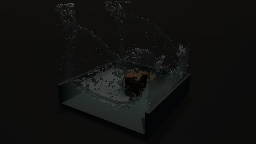
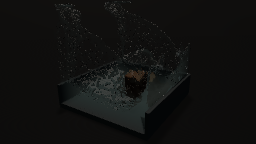
Liquid Surface: port the FLIP Fluids mesher ratios (reach 2/3 bin, band 1/3 bin)
The GPU water looked blobby because the level set was only exact a tenth
of a bin outside the kernel, below the lattice spacing, so marching cubes
read a clipped field at every crossing. The FLIP Fluids mesher (ported
reference, crates/manifold-fluids/native/flip_engine/particlemesher.cpp)
writes its sphere-union field exactly out to 1.5 radii: band is half the
reach. The three surface atoms now share that ratio: blob reach caps at
2/3 of a bin, the volume and the solid clamp hold a 1/3-bin band.

WaterDamBreakGpuFlip takes the mesher's defaults: particle scale 3.0,
no level-set smoothing, mesh relaxation 0.5 x 2, bin 1.4 cells (1.5
radii, where the kernel meets the cap).

The extreme-dials proof asserted smoothing drags the border under zero;
at a third of a bin it cannot, so it now asserts the border moved off
the band, which is what the clamp restores.

diff --git a/crates/manifold-renderer/src/node_graph/primitives/liquid_surface_tests.rs b/crates/manifold-renderer/src/node_graph/primitives/liquid_surface_tests.rs
@@ -1002,7 +1002,8 @@ fn fluid_shape_particle_blobs_stretch_one_is_an_exact_sphere() {
 
 /// The level set's cap outside the liquid, as a fraction of a bin; the WGSL of
 /// `node.particle_volume` and `node.shape_particle_blobs` both hold it (P6e).
-const LEVEL_SET_BAND: f64 = 0.1;
+/// The volume's cap, as a fraction of a bin; the blob reach cap is the rest.
+const LEVEL_SET_BAND: f64 = 1.0 / 3.0;
 
 /// The volume against a brute force over every blob, not just the node's
 /// bins: it matches only if no blob the ±1-bin search misses comes within the
@@ -1782,7 +1783,7 @@ fn fluid_clamp_liquid_to_solids_matches_reference_and_passes_through() {
     let (_, errors) = run(&mut harness, nodes);
     assert!(errors.is_empty(), "{errors:?}");
     let clamped: Vec<f32> = read(&clamped_buf, values.len());
-    let band = 0.1_f32 * cell;
+    let band = cell / 3.0;
     let h: [f64; 3] = std::array::from_fn(|a| f64::from(size[a]) / f64::from(nodes[a] - 1));
     let (mut border, mut raised, mut kept, mut ambiguous) = (0, 0, 0, 0);
     for (idx, (&value, &out)) in values[..total].iter().zip(&clamped).enumerate() {
@@ -1856,7 +1857,9 @@ fn fluid_clamp_fused_with_smoothing_renders_like_unfused() {
 /// resolution 8 against the floor and four closed walls and, through the open
 /// top, up to the lattice's top edge. After the clamp every padding node
 /// (behind a closed wall) reads air and every border node reads the band;
-/// before it, both kinds read liquid, or the fixture proves nothing.
+/// before it, the padding reads liquid and smoothing has pulled the border
+/// off the band (the volume already holds it there), or the fixture proves
+/// nothing.
 #[test]
 fn fluid_liquid_surface_keeps_padding_and_border_air_at_extreme_dials() {
     use crate::node_graph::liquid::lattice::{LiquidLattice, PADDING_NODES};
@@ -1943,16 +1946,16 @@ fn fluid_liquid_surface_keeps_padding_and_border_air_at_extreme_dials() {
 
     let smoothed: Vec<f32> = read(&smoothed.expect("three passes"), total);
     let clamped: Vec<f32> = read(&clamped_buf, total);
-    let band = 0.1_f32 * cell;
+    let band = cell / 3.0;
     let h: [f64; 3] = std::array::from_fn(|a| f64::from(lattice.size[a]) / f64::from(nodes[a] - 1));
     let (mut border, mut padding) = (0, 0);
-    let (mut border_liquid_before, mut padding_liquid_before) = (0, 0);
+    let (mut border_moved_before, mut padding_liquid_before) = (0, 0);
     for idx in 0..total {
         let ijk = [idx as u32 % nodes[0], (idx as u32 / nodes[0]) % nodes[1], idx as u32 / (nodes[0] * nodes[1])];
         if (0..3).any(|a| ijk[a] == 0 || ijk[a] == nodes[a] - 1) {
             assert_eq!(clamped[idx].to_bits(), band.to_bits(), "border node {ijk:?} reads {}", clamped[idx]);
             border += 1;
-            border_liquid_before += usize::from(smoothed[idx] < 0.0);
+            border_moved_before += usize::from(smoothed[idx].to_bits() != band.to_bits());
             continue;
         }
         let p: [f64; 3] = std::array::from_fn(|a| f64::from(min[a]) + f64::from(ijk[a]) * h[a]);
@@ -1964,8 +1967,8 @@ fn fluid_liquid_surface_keeps_padding_and_border_air_at_extreme_dials() {
     }
     assert!(border > 1000 && padding > 1000, "border {border}, padding {padding}");
     assert!(
-        border_liquid_before > 0 && padding_liquid_before > 0,
-        "the unclamped surface must reach the border ({border_liquid_before}) and the padding ({padding_liquid_before})"
+        border_moved_before > 0 && padding_liquid_before > 0,
+        "smoothing must move the border off the band ({border_moved_before}) and the unclamped surface must reach the padding ({padding_liquid_before})"
     );
 }
 

diff --git a/crates/manifold-renderer/src/node_graph/primitives/shape_particle_blobs.rs b/crates/manifold-renderer/src/node_graph/primitives/shape_particle_blobs.rs
@@ -80,7 +80,7 @@ crate::primitive! {
         bin_param!("bins_z", "Bins Z"),
     ],
     depth_rule: Terminal,
-    composition_notes: "Feed it node.sort_particles_into_cells' outputs with the same box and cell_size, and wire the sort's bins_x/y/z: the bins are the sort's, never worked out again on the GPU, and cell_ranges must hold one range per bin or nothing runs (a named error). All three unwired (a graph from before these wires) takes the sort's CPU rule on the shared box, checked the same way. The kernel never reaches past 0.9 bin from its particle (the band node.particle_volume's distance cap relies on), so cell_size bounds both the look and the cost: particle_scale above 0.9 × cell_size / radius has no further effect. Stretch 1 writes exact spheres and skips the covariance pass, about half the kernel's cost. Live params: changing any of them reshapes the next frame's surface without touching the simulation. Output slots of inactive particles have radius 0.",
+    composition_notes: "Feed it node.sort_particles_into_cells' outputs with the same box and cell_size, and wire the sort's bins_x/y/z: the bins are the sort's, never worked out again on the GPU, and cell_ranges must hold one range per bin or nothing runs (a named error). All three unwired (a graph from before these wires) takes the sort's CPU rule on the shared box, checked the same way. The kernel never reaches past two thirds of a bin from its particle (the remaining third is the band node.particle_volume's distance cap relies on, half the reach as in FLIP Fluids' mesher), so cell_size bounds both the look and the cost: particle_scale above 2/3 × cell_size / radius has no further effect. A bin of 1.5 × particle_scale × radius puts the kernel exactly at the cap. Stretch 1 writes exact spheres and skips the covariance pass, about half the kernel's cost. Live params: changing any of them reshapes the next frame's surface without touching the simulation. Output slots of inactive particles have radius 0.",
     examples: [],
     picker: { label: "Shape Particle Blobs", category: Atom },
     summary: "Stretches each liquid particle along the shape of its neighbours, so thin sheets and streams stay thin instead of turning into beads.",

diff --git a/crates/manifold-renderer/src/node_graph/primitives/particle_volume.rs b/crates/manifold-renderer/src/node_graph/primitives/particle_volume.rs
@@ -52,7 +52,7 @@ pub(crate) fn volume_scale(params: &ParamValues) -> u32 {
 crate::primitive! {
     name: ParticleVolume,
     type_id: "node.particle_volume",
-    purpose: "The liquid's level set on a lattice: at each node, the distance to the nearest kernel ellipsoid, a·(|G·(x − c)| − 1) with a the kernel's longest axis (exact for spheres), negative inside and capped a tenth of a bin outside. The lattice is the solid lattice (nodes_x/y/z over the center/size box) refined resolution_scale times per cell. Nodes inside a solid are never inside the liquid and the border is outside, so the surface closes.",
+    purpose: "The liquid's level set on a lattice: at each node, the distance to the nearest kernel ellipsoid, a·(|G·(x − c)| − 1) with a the kernel's longest axis (exact for spheres), negative inside and capped a third of a bin outside (half the kernel reach, the FLIP Fluids mesher's ratio, so a marching-cubes crossing a lattice step away is exact). The lattice is the solid lattice (nodes_x/y/z over the center/size box) refined resolution_scale times per cell. Nodes inside a solid are never inside the liquid and the border is outside, so the surface closes.",
     inputs: {
         blobs: Array(FluidBlob) required,
         cell_ranges: Array(CellRange) required,

diff --git a/crates/manifold-renderer/src/node_graph/primitives/clamp_liquid_to_solids.rs b/crates/manifold-renderer/src/node_graph/primitives/clamp_liquid_to_solids.rs
@@ -41,7 +41,7 @@ struct ClampUniforms {
 crate::primitive! {
     name: ClampLiquidToSolids,
     type_id: "node.clamp_liquid_to_solids",
-    purpose: "Clamp a liquid level set (nodes_x/y/z nodes over the center/size box, node (i, j, k) at i + nx·(j + ny·k)) against its solid lattice (solid_nodes_x/y/z over the same box, sampled trilinearly): border nodes read a tenth of a bin outside, nodes where the solid is negative read max(value, 0), every other node passes through. Nodes past the lattice, and every node while there is no lattice, pass through.",
+    purpose: "Clamp a liquid level set (nodes_x/y/z nodes over the center/size box, node (i, j, k) at i + nx·(j + ny·k)) against its solid lattice (solid_nodes_x/y/z over the same box, sampled trilinearly): border nodes read a third of a bin outside, nodes where the solid is negative read max(value, 0), every other node passes through. Nodes past the lattice, and every node while there is no lattice, pass through.",
     inputs: {
         levelset: Array(f32) required,
         solid: Array(f32) required,
